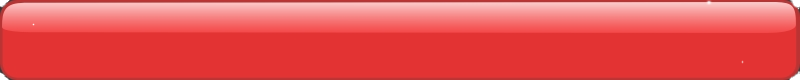
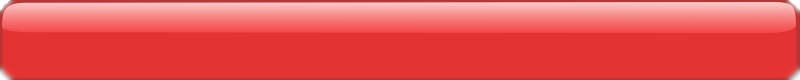
many fixes. gcompris.c: fixed mixup of svg and png backgrounds
many fixes.
gcompris.c: fixed mixup of svg and png backgrounds
elephant_mer.svgz: fixed svg
bar_bg.png: remade, the old one had holes in it
board.c: force the bar to be over after the activty is started

svn path=/branches/gcomprixogoo/; revision=3278

diff --git a/src/reversecount-activity/reversecount.c b/src/reversecount-activity/reversecount.c
@@ -343,8 +343,6 @@ static void reversecount_next_level()
   gc_set_background(goo_canvas_get_root_item(gcomprisBoard->canvas),
 		    imageList[gcomprisBoard->level-1]);
 
-  gc_bar_set_level(gcomprisBoard);
-
   reversecount_destroy_all_items();
   gamewon = FALSE;
 
@@ -408,6 +406,9 @@ static void reversecount_next_level()
 
   /* Try the next level */
   reversecount_create_item(goo_canvas_get_root_item(gcomprisBoard->canvas));
+
+  gc_bar_set_level(gcomprisBoard);
+
 }
 /* ==================================== */
 /* Destroy all the items */
@@ -529,6 +530,7 @@ static GooCanvasItem *reversecount_create_item(GooCanvasItem *parent)
       g_signal_connect(item, "button_press_event",
 		       (GtkSignalFunc) item_event,
 		       val);
+      gc_item_focus_init(item, NULL);
     }
   g_object_unref(svg_handle);
 
@@ -766,6 +768,7 @@ item_event (GooCanvasItem  *item,
   g_object_set (item,
 		"rsvg-handle", rsvg_handle,
 		NULL);
+  gc_item_focus_init(item, NULL);
   g_object_unref(rsvg_handle);
 
   g_free(str);

diff --git a/src/gcompris/bar.c b/src/gcompris/bar.c
@@ -270,6 +270,7 @@ void gc_bar_set_level(GcomprisBoard *gcomprisBoard)
 		    "pixbuf", pixmap,
 		    NULL);
       gdk_pixbuf_unref(pixmap);
+
     }
 
   current_level=gcomprisBoard->level;
@@ -478,6 +479,7 @@ gc_bar_hide (gboolean hide)
       g_object_set(about_item,
 		   "visibility", GOO_CANVAS_ITEM_INVISIBLE, NULL);
 
+      _force_bar_down();
     }
   else
     {
@@ -487,7 +489,6 @@ gc_bar_hide (gboolean hide)
 
     }
 
-  _force_bar_down();
 }
 
 /*-------------------------------------------------------------------------------*/
@@ -579,7 +580,7 @@ on_leave_notify (GooCanvasItem  *item,
   bar_reset_sound_id();
 
   if(!bar_down_id)
-    bar_down_id = g_timeout_add (5000, (GtkFunction) _bar_down, NULL);
+    bar_down_id = g_timeout_add (3500, (GtkFunction) _bar_down, NULL);
 
   return FALSE;
 }

diff --git a/src/gcompris/gcompris.c b/src/gcompris/gcompris.c
@@ -535,12 +535,16 @@ gc_set_background(GooCanvasItem *parent, gchar *file)
     {
       if(backgroundimg)
 	goo_canvas_item_remove(backgroundimg);
+
+      backgroundimg = NULL;
       _set_svg_background(parent, file);
     }
   else
     {
       if(backgroundsvgimg)
 	goo_canvas_item_remove(backgroundsvgimg);
+
+      backgroundsvgimg = NULL;
       _set_pixmap_background(parent, file);
     }
 }

diff --git a/src/gcompris/board.c b/src/gcompris/board.c
@@ -366,6 +366,9 @@ gc_board_play(GcomprisBoard *gcomprisBoard)
       bp->start_board(gcomprisBoard);
       bp_data->playing = TRUE;
 
+      /* Force the bar to go on top of the activities canvas items */
+      gc_bar_hide (FALSE);
+
       return;
     }
 
